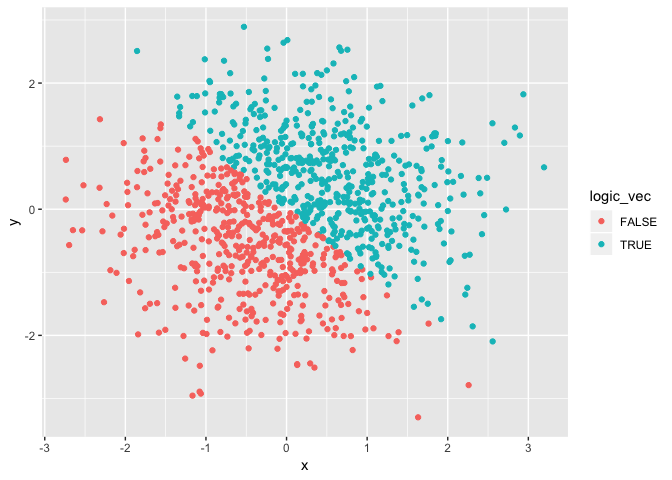
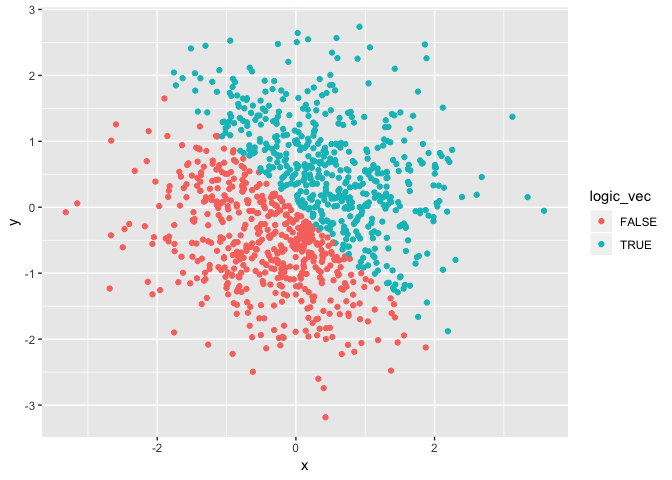
made some correction to codes

diff --git a/p8105_hw1_xz2788.md b/p8105_hw1_xz2788.md
@@ -43,13 +43,13 @@ take the mean of each variable in the dataframe
 mean(hw1_df_1$numeric_vec)
 ```
 
-    ## [1] 2.54864
+    ## [1] 2.786473
 
 ``` r
 mean(hw1_df_1$logic_vec)
 ```
 
-    ## [1] 0.7
+    ## [1] 0.8
 
 ``` r
 mean(hw1_df_1$char_vec)
@@ -91,7 +91,6 @@ Converting vectors
 Here is a **code chunk** that applies the as.numeric function:
 
 ``` r
-## why can't use results = hide, the message said that hide not found
 as.numeric(hw1_df_1$logic_vec)
 as.numeric(hw1_df_1$char_vec)
 as.numeric(hw1_df_1$factor_vec)
@@ -142,9 +141,9 @@ hw1_df_2 = tibble(
 
 The size of the dataset is 1000, 5 or 1000 \* 5
 
-The mean of x is 0.0367543 and the median of x is 0.0313368
+The mean of x is 0.0395543 and the median of x is 0.0658432
 
-The proportion of cases for which the logical vector is TRUE is 0.514
+The proportion of cases for which the logical vector is TRUE is 0.508
 
 Making scatterplots:
 --------------------
